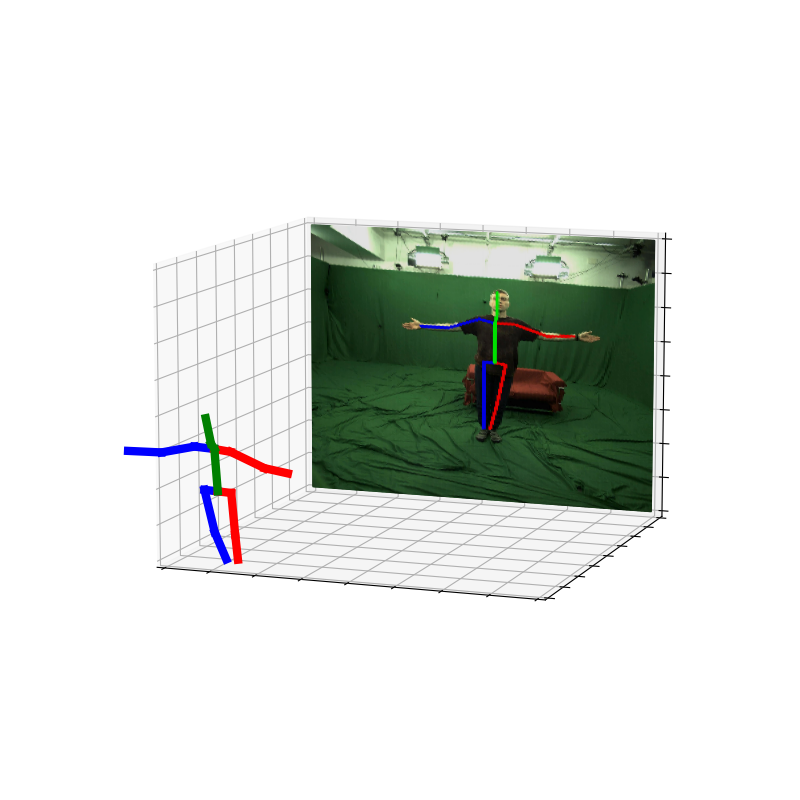
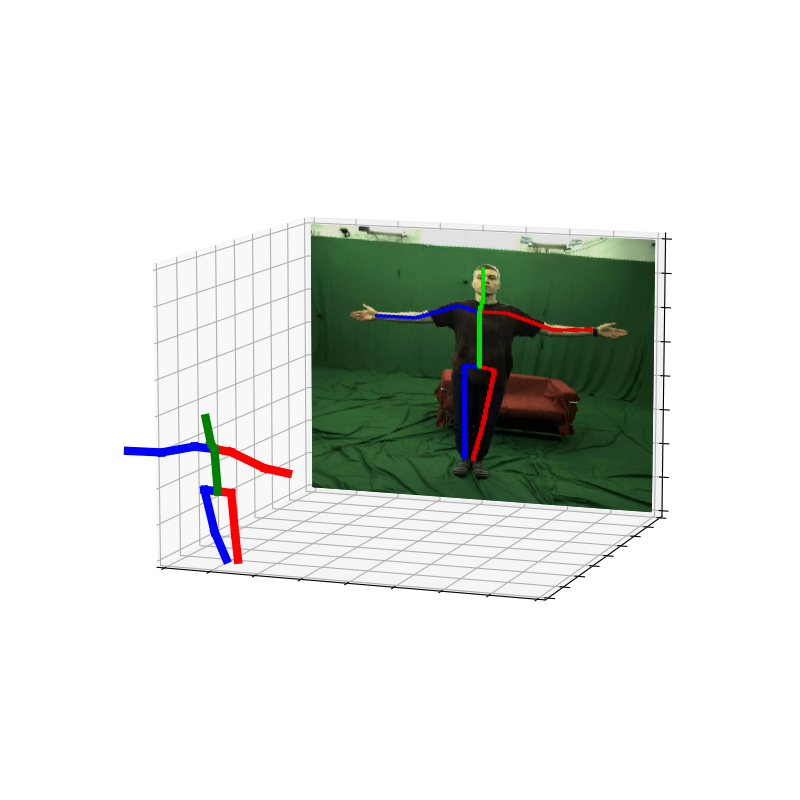
commit

Changed region(s): [[0.375, 0.2812, 0.8438, 0.6562]]

diff --git a/main_crop.py b/main_crop.py
@@ -48,8 +48,42 @@ def final_visualization(pose_3D_pred, pose_3D_gt, arr, Radius, angles, save_img_
 def main(img_path, pose2D, pose3D, pose3D_gt, save_img_folder):
     data_type = 'mpii'
     img = cv2.imread(img_path)
-    img = vis_2D_pose(img, pose2D, data_type=data_type)
-    img = cv2.resize(img, (256, 256))
+    img_with_p2d = vis_2D_pose(img, pose2D, data_type=data_type)
+
+    # human crop
+    x_set, y_set = pose2D.T
+
+    # rectangles = [[] for _ in range(4)]
+    rectangle = (max(int(abs(x_set.max()-x_set.min())),
+                     int(abs(y_set.max()-y_set.min())))/2)*1.4
+    # rectangles[v].append(rectangle)
+    # rectangle = np.mean(rectangles[v])
+
+    if data_type == 'h36m':
+        root_joint = pose2D[0]
+    else:
+        root_joint = pose2D[6]
+
+    left_range = int(root_joint[1]-rectangle)
+    right_range = int(root_joint[1]+rectangle)
+    bottom_range = int(root_joint[0]-rectangle)
+    upper_range = int(root_joint[0]+rectangle)
+
+    if left_range < 0:
+        left_range = 0
+    if right_range > img.shape[1]:
+        right_range = img.shape[1]
+    if bottom_range < 0:
+        bottom_range = 0
+    if upper_range > img.shape[0]:
+        upper_range = img.shape[0]
+
+    cropimg = img_with_p2d[left_range:
+                           right_range,
+                           bottom_range:
+                           upper_range]
+
+    img = cv2.resize(cropimg, (256, 256))
     img = cv2.cvtColor(img, cv2.COLOR_BGR2RGB)
 
     arr = img / 255

diff --git a/functions.py b/functions.py
@@ -1,7 +1,7 @@
 import cv2
 import numpy as np
 H36M_JOINTMAP = [
-    [0, 1], [1, 2], [2, 3],       # 오른쪽 하체
+    [0, 1], [1, 2], [2, 3],       # 오른쪽 하체         # 0번째가 root joint
     [0, 4], [4, 5], [5, 6],        # 왼쪽 하체
     [7, 13], [13, 14], [14, 15],     # 오른쪽 상체
     [7, 10], [10, 11], [11, 12],     # 왼쪽 하체
@@ -9,7 +9,7 @@ H36M_JOINTMAP = [
 ]
 
 MPII_JOINTMAP = [
-    [0, 1], [1, 2], [2, 6],     # 오른쪽 하체
+    [0, 1], [1, 2], [2, 6],     # 오른쪽 하체           # 6번째가 root joint
     [6, 3], [3, 4], [4, 5],      # 왼쪽 하체
     [10, 11], [11, 12], [12, 7],
     [7, 13], [13, 14], [14, 15],
